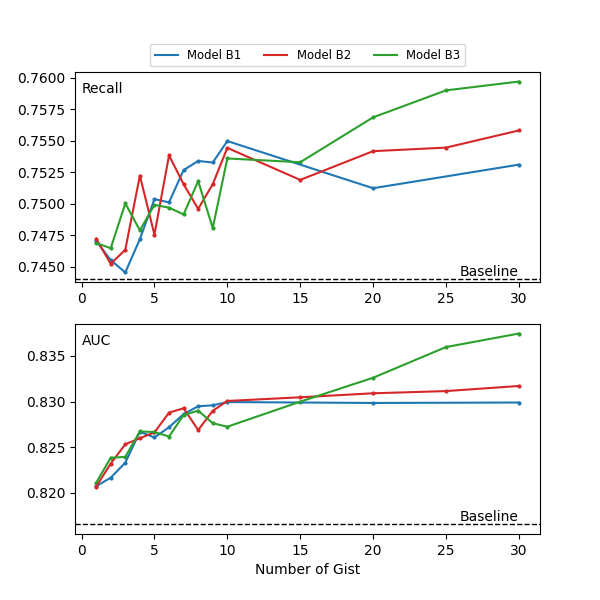
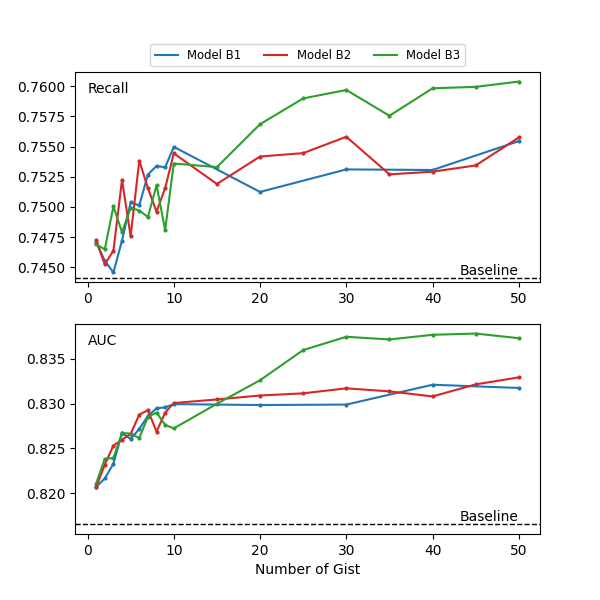
New Training Data

diff --git a/plots.py b/plots.py
@@ -10,7 +10,7 @@ caregnn_baseline_auc = 0.8237
 gnn_baseline_recall = 0.74406
 gnn_baseline_auc = 0.81654
 
-colors = ['tab:blue', 'tab:red', 'tab:green', 'tab:cyan']
+colors = ['tab:blue', 'tab:red', 'tab:green', 'tab:cyan', 'tab:pink', 'tab:brown']
 
 model_results = {
     'A':{
@@ -29,9 +29,19 @@ model_results = {
         'auc': [0.82068, 0.8232, 0.82532, 0.82598, 0.82662, 0.82878, 0.82926, 0.82688, 0.82898, 0.83006, 0.83046, 0.8309, 0.83114, 0.8317, 0.83136, 0.8308, 0.83214, 0.83292]
     },
     'B3':{
-        'x': [1, 2, 3, 4, 5, 6, 7, 8, 9, 10, 15, 20, 25, 30],
-        'recall': [0.7469, 0.74648, 0.75004, 0.7479, 0.74992, 0.7497, 0.74916, 0.7518, 0.74808, 0.7536, 0.7533, 0.75686, 0.759, 0.7597],
-        'auc': [0.8211, 0.82384, 0.82394, 0.82672, 0.82666, 0.82616, 0.82852, 0.829, 0.82762, 0.82724, 0.82998, 0.8326, 0.83596, 0.83744]
+        'x': [1, 2, 3, 4, 5, 6, 7, 8, 9, 10, 15, 20, 25, 30, 35, 40, 45, 50],
+        'recall': [0.7469, 0.74648, 0.75004, 0.7479, 0.74992, 0.7497, 0.74916, 0.7518, 0.74808, 0.7536, 0.7533, 0.75686, 0.759, 0.7597, 0.75756, 0.75984, 0.75996, 0.7604],
+        'auc': [0.8211, 0.82384, 0.82394, 0.82672, 0.82666, 0.82616, 0.82852, 0.829, 0.82762, 0.82724, 0.82998, 0.8326, 0.83596, 0.83744, 0.83714, 0.83766, 0.8378, 0.83728]
+    },
+    'C':{
+        'x': [1, 2, 3, 4, 5, 6, 7, 8, 9, 10, 15, 20, 25, 30, 35, 40, 45, 50, 60, 70, 80, 90, 100],
+        'recall': [0.7531, 0.75558, 0.75704, 0.76166, 0.76082, 0.76174, 0.76188, 0.76218, 0.76202, 0.76092, 0.76378, 0.76854, 0.76746, 0.76906, 0.76864, 0.76914, 0.76886, 0.77154, 0.76858, 0.76948, 0.76456, 0.76464, 0.76818],
+        'auc': [0.8323, 0.83552, 0.83648, 0.84102, 0.8411, 0.84138, 0.84182, 0.8427, 0.8427, 0.84432, 0.84536, 0.85134, 0.85162, 0.85198, 0.85244, 0.85204, 0.85308, 0.85382, 0.85194, 0.85322, 0.8512, 0.85168, 0.85074]
+    },
+    'D':{
+        'x': [1, 2, 3, 4, 5, 6, 7, 8, 9, 10, 15, 20, 25, 30, 35, 40, 45, 50, 60, 70, 80, 90, 100],
+        'recall': [0.51634, 0.53974, 0.60966, 0.61218, 0.6197, 0.61784, 0.62416, 0.6239, 0.6505, 0.65612, 0.66392, 0.68588, 0.6834, 0.68124, 0.68248, 0.68596, 0.68716, 0.6829, 0.6952, 0.69216, 0.6946, 0.70242, 0.70158],
+        'auc': [0.71388, 0.61046, 0.67328, 0.68192, 0.68976, 0.69452, 0.70298, 0.70512, 0.73304, 0.73906, 0.74428, 0.76218, 0.75976, 0.76114, 0.7598, 0.7614, 0.7635, 0.76786, 0.77094, 0.773, 0.77542, 0.7752, 0.78012]
     }
 }
 
